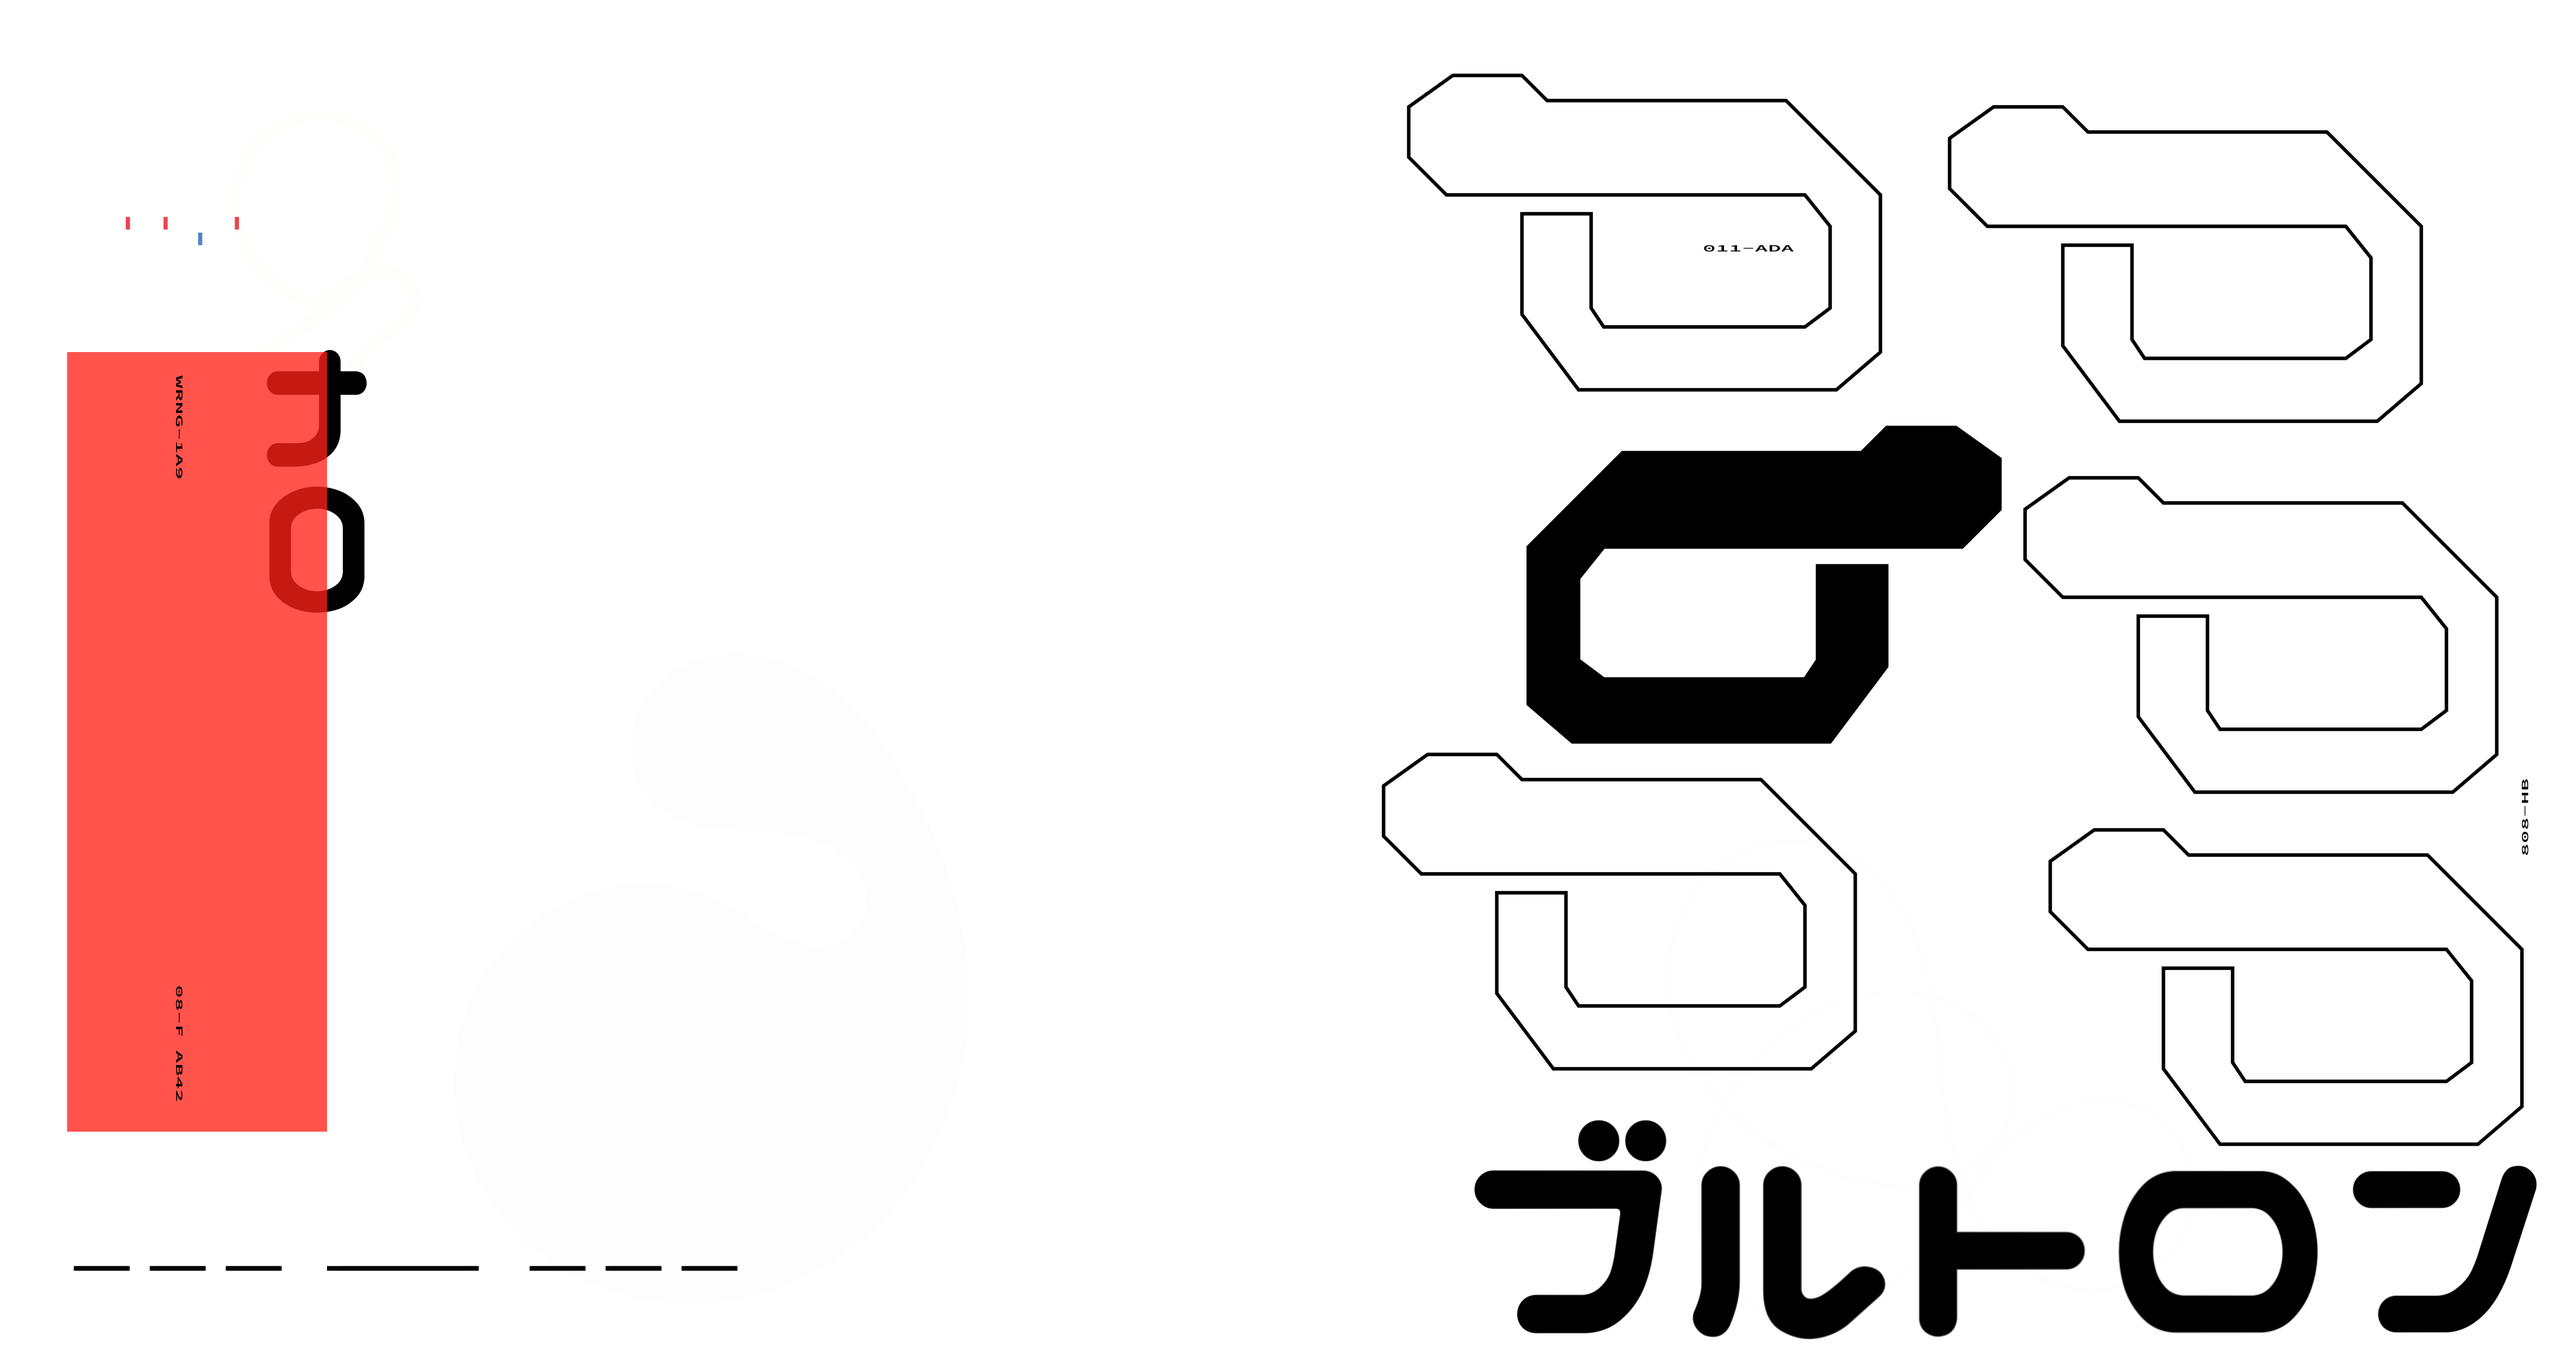
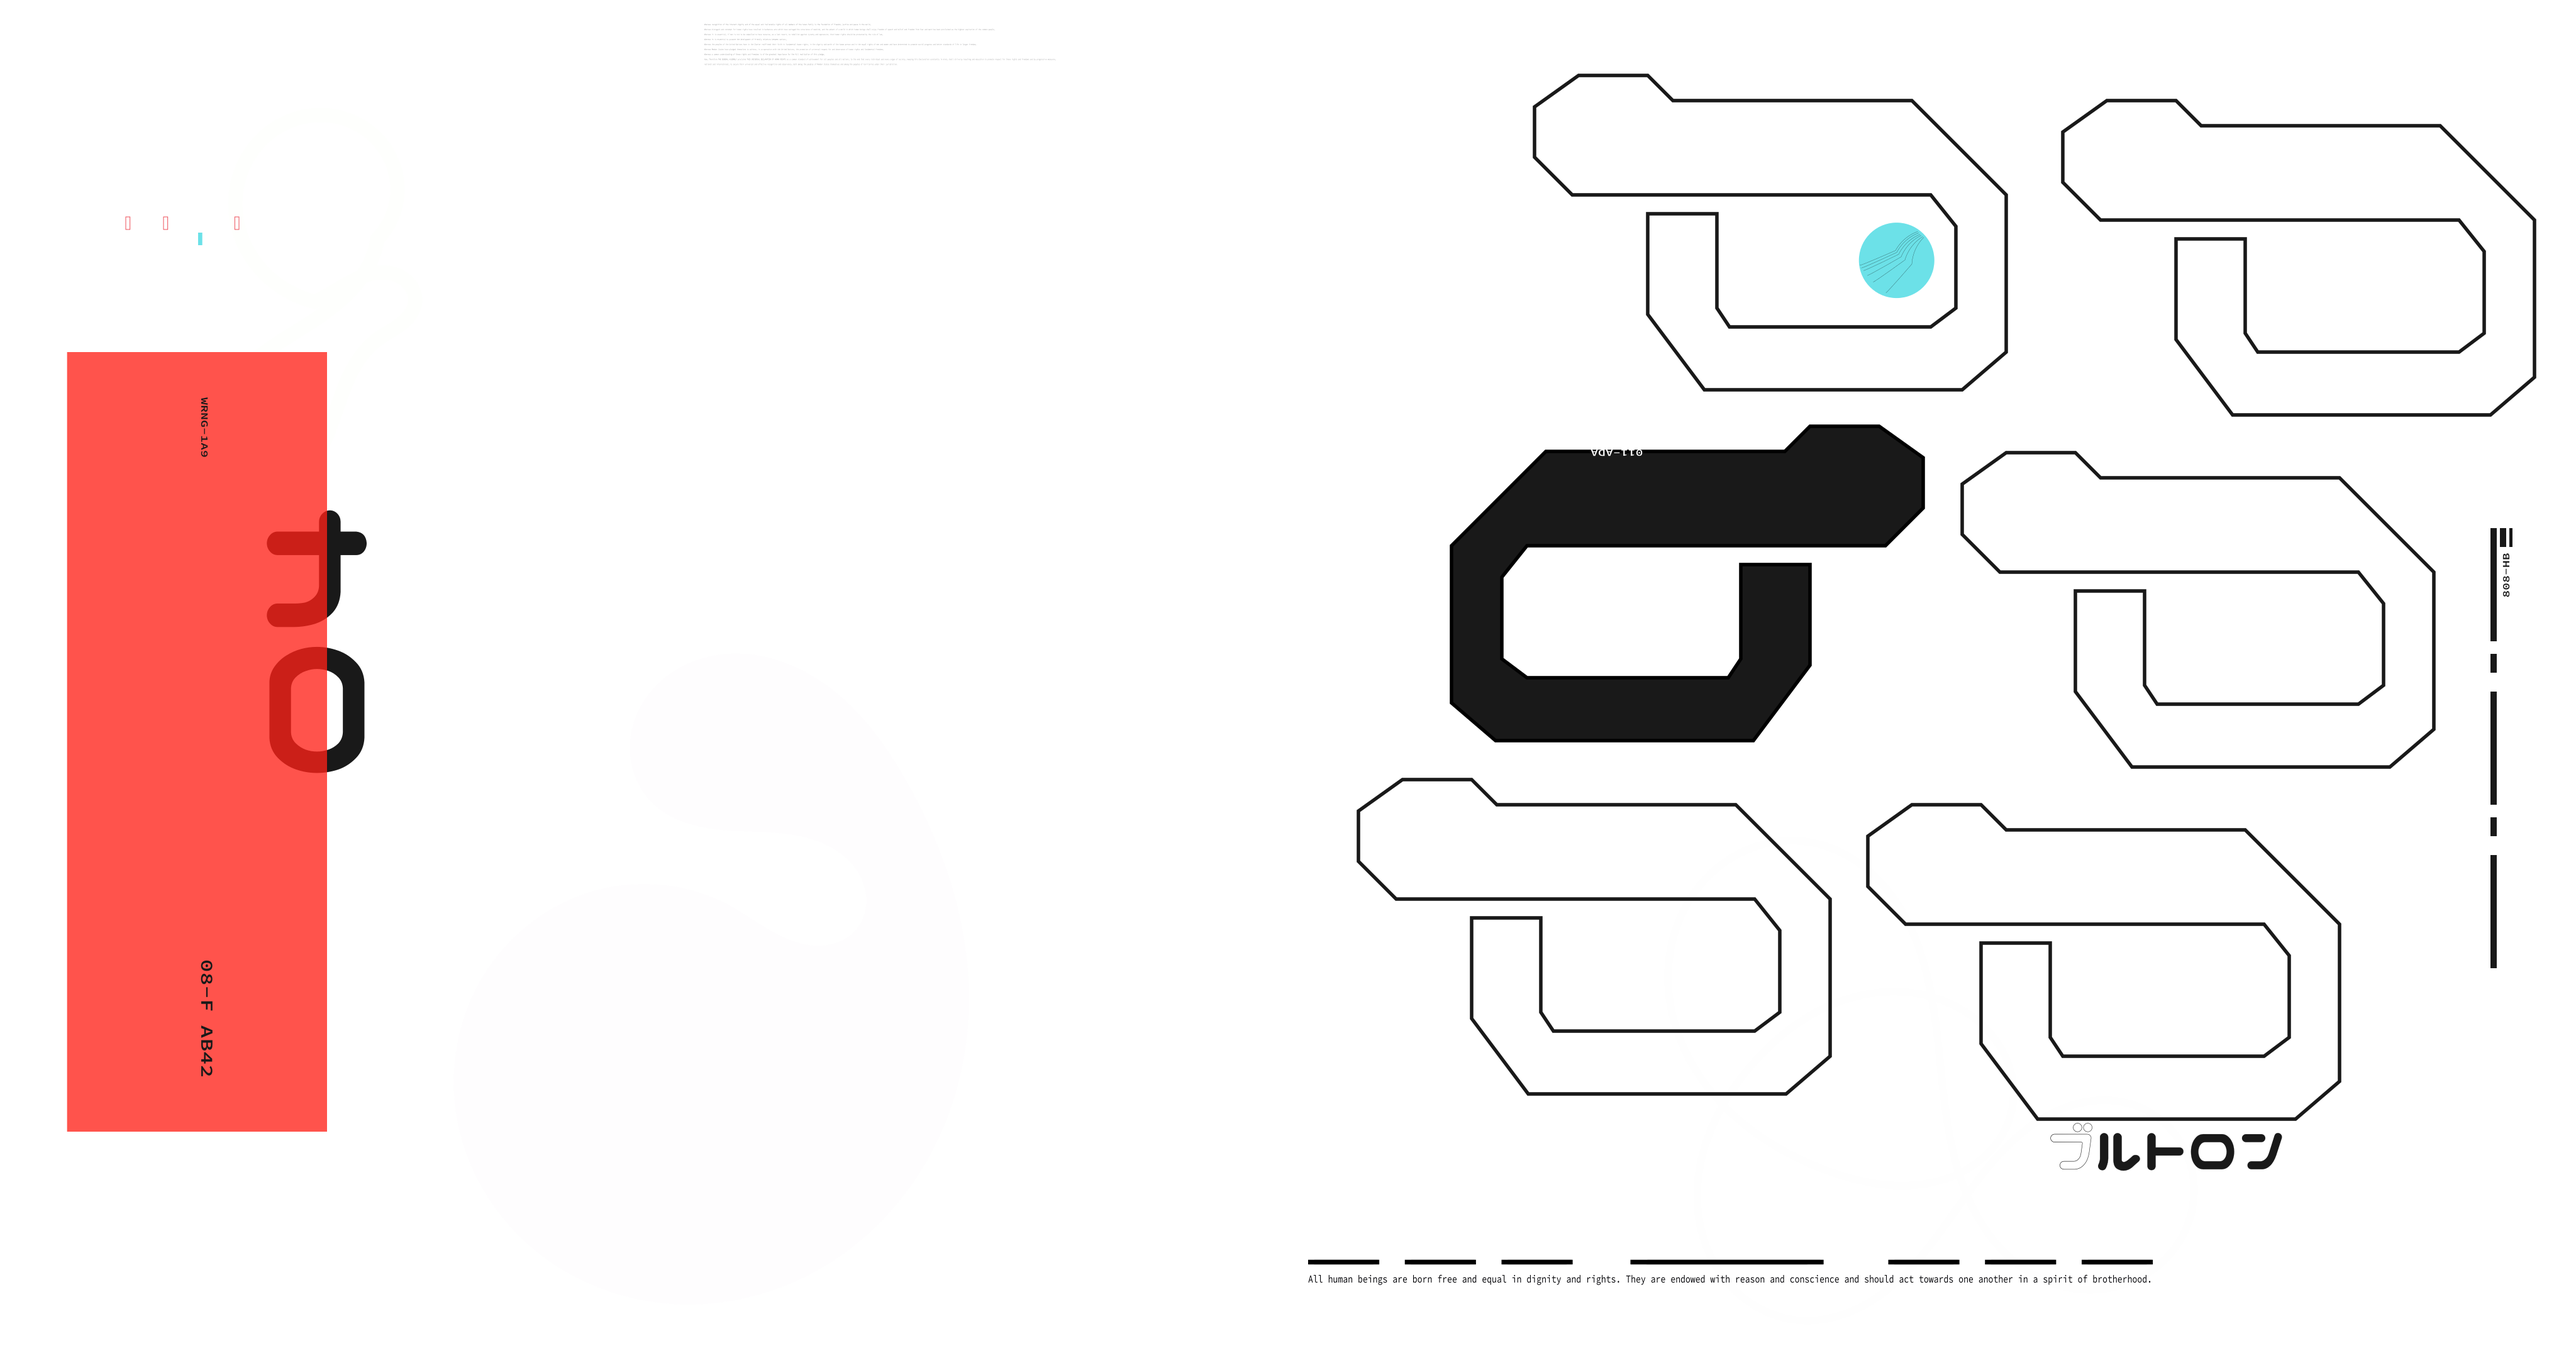
Added more text and doodads.

diff --git a/css/power.css b/css/power.css
@@ -37,54 +37,11 @@ a, a:hover {
   height: 100%; width: 85%;
   margin-left: 10%;
 }
-.foreground_object1 { /* Border and background*/
-  position: absolute;
-  z-index: 3;
-  bottom: 0; right: 20rem; width: 25%;
-  overflow: hidden;
-  background-color: rgba(0,0,0, 1);
-}
-.foreground_object2 { /* Gradient */
-  height: 85%;
-  background-color: rgba(200, 190, 190, 1);
-  background-image: linear-gradient(
-    90deg,
-    black 25%,
-    transparent 25%,
-    transparent 50%,
-    black 50%,
-    black 75%,
-    transparent 75%,
-    transparent);
-  background-size: 4px 4px;
-}
-/* SPECIAL TAG */
-.lod_special {
-  /*
-  background-color: #b81471;
-  color: rgba(240, 240, 245, 1);
-  */
-  writing-mode: vertical-rl;
-  position: absolute;
-  border-radius: 2.5px 2.5px 5px 5px;
-  border-left: 1px solid black;
-  border-right: 1px solid black;
-  border-bottom: 4px solid black;
-  padding-right: .25rem;
-  height: 5rem;
-  top: -5px;
-}
-/* END OF TAG */
 .frame_head {
   text-align: left;
-  width: 100%; height: 20%;
-  padding-top: 2rem;
+  width: 100%; height: 40%;
+  padding-top: 6rem;
   z-index: 2;
-}
-.frame_head_tippytop {
-  position: relative;
-  text-align: center;
-  top: 10px;
 }
 
 /* Display {sizes} */
@@ -94,45 +51,23 @@ a, a:hover {
   and (min-device-width: 200px)
   and (max-device-width: 450px) {
     p {font-size: 5vw;}
-    .frame_head_tippytop{margin: 0; margin-bottom: 25%;}
     .frame_head {margin-bottom: 0%;}
     .frame_background {margin: 0;}
-    .foreground_object1 {margin: 0; right: 10px; bottom: -5px;}
     .frame {width: 100%; height: 95%; margin-left: 0; margin-right: 0; margin-top: 2rem;}
     body {width: 100%;}
-    #bu {font-size: 30vw;}
-    #main_title_1 {font-size: 25vw;}
-    #main_title_2 {font-size: 20vw;}
-    #main_title_3 {font-size: 18.5vw;}
 }
 /*Weird portrait screens*/
 @media screen
   and (min-device-width: 600px)
   and (max-device-width: 767px) {
     p {font-size: 2vw;}
-    .frame_head_tippytop{
-      margin-left: 30%;
-      margin-right: 30%;
-      padding-bottom: 20%;}
     .frame_body {margin-top: 25%;}
-    .frame_body_foot {margin-top: 20%;}
-    #bu {font-size: 30vw;}
-    #main_title_1 {font-size: 20vw;}
-    #main_title_2 {font-size: 15vw;}
-    #main_title_3 {font-size: 10vw;}
 }
 /* Tablets */
 @media screen
   and (min-device-width: 768px)
   and (max-device-width: 1366px) {
     p {font-size: 2vw;}
-    .frame_head_tippytop{
-      margin-left: 30%;
-      margin-right: 30%;
-      padding-bottom: 20%;}
-    #main_title_1 {font-size: 30vw;}
-    #main_title_2 {font-size: 15vw;}
-    #main_title_3 {font-size: 10vw;}
   }
 }
 /*non-retina*/

diff --git a/index.html b/index.html
@@ -23,27 +23,16 @@
     <script src="js/power.js"></script>
   </head>
   <body>
-    <div class="frame"> <!--Beginning of frame-->
+    <div class="frame">
       <div class="inner_frame">
-        <!--div class="foreground_object1">
-          <div class="foreground_object2">
-            <h3 style="padding-left: 1rem; padding-top: .5rem;">IOL: 186730-083 | UA - 101030<span style="font-size:75%;">일</span> </h1>
-            <h5 style="padding-left: 1rem; padding-bottom: .5rem;">
-              // DO NOT WIPE -- Due for analysis by Metropolitan Police <span style="text-decoration: line-through;">10/20</span> //
-            </h5>
-          </div>
-        </div-->
         <div class="frame_head">
-          <h4>jasonnova <br> @ protonmail.com <br>
+          <h5>jasonnova <br> @ protonmail.com <br>
             <a href="https://twitter.com/jsn404">twitter &
             <a href="https://github.com/jeibloo">github</a>
-          </h4>
+          </h5>
         </div>
-
-        <!--h1 id="a1">ブ</h1-->
       </div>
-
-    </div> <!--End of frame-->
+    </div>
 
   </body>
 
